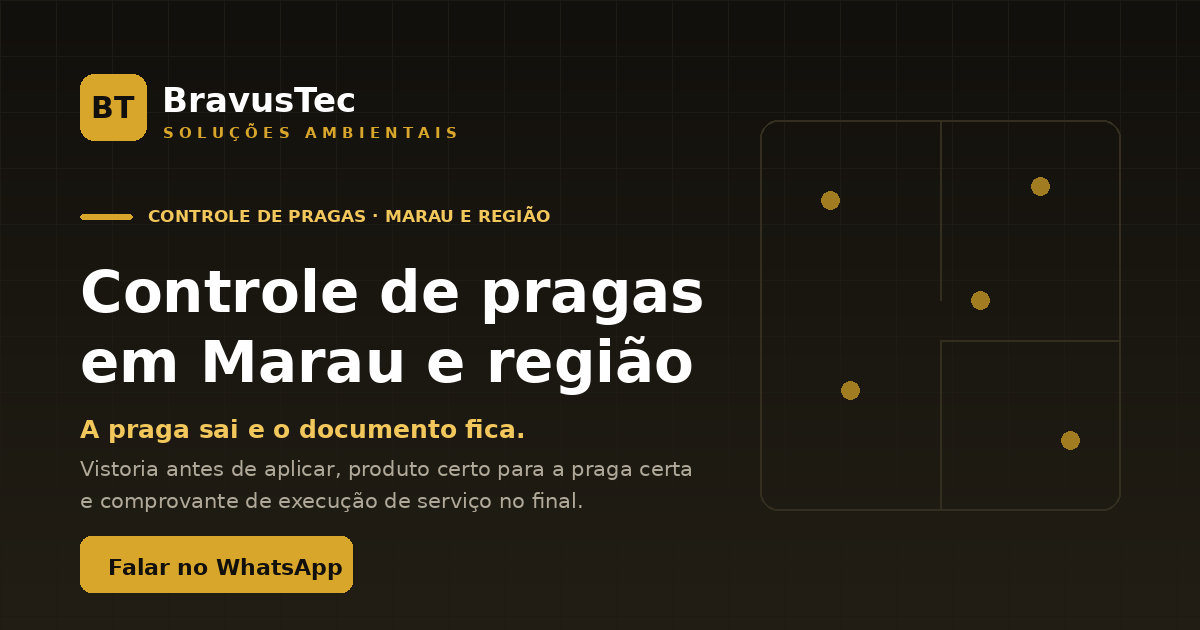
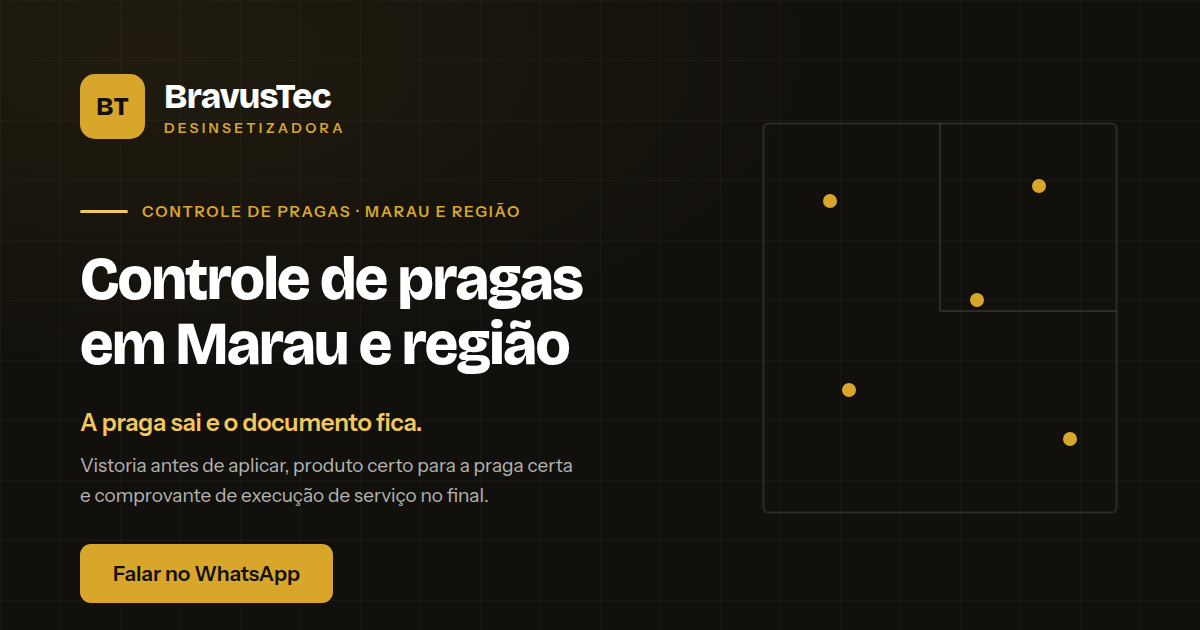
Troca 'Solucoes Ambientais' por 'Desinsetizadora'
Pedido do cliente. Bate com a razao social do cartao CNPJ
(BRAVUSTEC DESINSETIZADORA LTDA) e com a identidade do carro.

Alterado em title, og:title, os dois lockups da marca (header e
rodape), a linha legal do rodape e o JSON-LD.

A og.png tinha 'SOLUCOES AMBIENTAIS' gravado na propria imagem, entao
foi refeita em 1200x630 com o mesmo layout. Agora usa a Bricolage
Grotesque de verdade -- a imagem anterior havia sido gerada com fonte
substituta.

diff --git a/index.html b/index.html
@@ -3,7 +3,7 @@
 <head>
 <meta charset="UTF-8">
 <meta name="viewport" content="width=device-width, initial-scale=1">
-<title>BravusTec Soluções Ambientais — Controle de pragas em Marau e região</title>
+<title>BravusTec Desinsetizadora — Controle de pragas em Marau e região</title>
 <meta name="description" content="Controle de pragas em Marau/RS para casas e empresas. Vistoria sem custo, aplicação por equipe com EPI e comprovante de execução de serviço conforme a RDC 622/2022 da ANVISA.">
 <meta name="theme-color" content="#12100C">
 
@@ -12,7 +12,7 @@
 <meta name="robots" content="noindex, nofollow">
 
 <meta property="og:type" content="website">
-<meta property="og:title" content="BravusTec Soluções Ambientais — Marau/RS">
+<meta property="og:title" content="BravusTec Desinsetizadora — Marau/RS">
 <meta property="og:description" content="Controle de pragas para casas e empresas em Marau e região. Vistoria sem custo e documentação para vigilância sanitária.">
 <meta property="og:locale" content="pt_BR">
 <meta property="og:image" content="https://wendelrb.github.io/bravustec-site/og.png">
@@ -608,7 +608,7 @@ section[id], main[id]{ scroll-margin-top:84px; }
       <span class="brand-mark">BT</span>
       <span class="brand-txt">
         <span class="brand-name">BravusTec</span>
-        <span class="brand-sub">Soluções Ambientais</span>
+        <span class="brand-sub">Desinsetizadora</span>
       </span>
     </a>
     <nav class="nav">
@@ -1242,7 +1242,7 @@ section[id], main[id]{ scroll-margin-top:84px; }
     <div class="ft-brand">
       <a class="brand" href="#topo" style="margin-bottom:16px">
         <span class="brand-mark">BT</span>
-        <span class="brand-txt"><span class="brand-name">BravusTec</span><span class="brand-sub">Soluções Ambientais</span></span>
+        <span class="brand-txt"><span class="brand-name">BravusTec</span><span class="brand-sub">Desinsetizadora</span></span>
       </a>
       <p>Controle de pragas urbanas para residências, comércios e indústrias em Marau e região.</p>
     </div>
@@ -1282,7 +1282,7 @@ section[id], main[id]{ scroll-margin-top:84px; }
   </div>
   <div class="wrap">
     <p class="ft-legal">
-      BravusTec Soluções Ambientais — CNPJ 67.513.859/0001-75 · Licença sanitária [[Nº]] · Licença ambiental [[Nº]] · Responsável técnico [[NOME, CONSELHO E REGISTRO]].<br>
+      BravusTec Desinsetizadora Ltda — CNPJ 67.513.859/0001-75 · Licença sanitária [[Nº]] · Licença ambiental [[Nº]] · Responsável técnico [[NOME, CONSELHO E REGISTRO]].<br>
       Empresa especializada em controle de vetores e pragas urbanas, conforme a RDC nº 622/2022 da ANVISA. O art. 22 dessa norma exige que toda propaganda traga a identificação nos órgãos licenciadores e o número da licença — preencha os campos acima antes de publicar. Em caso de intoxicação, ligue para o Centro de Informação Toxicológica: 0800 721 3000.
     </p>
   </div>
@@ -1349,7 +1349,7 @@ qs.forEach(q => q.addEventListener("toggle", () => {
 {
   "@context":"https://schema.org",
   "@type":"PestControlService",
-  "name":"BravusTec Soluções Ambientais",
+  "name":"BravusTec Desinsetizadora",
   "description":"Controle de pragas urbanas para residências, comércios e indústrias em Marau e região, Rio Grande do Sul.",
   "telephone":"+55 54 99694-2942",
   "address":{"@type":"PostalAddress","streetAddress":"[[ENDEREÇO]]","addressLocality":"Marau","addressRegion":"RS","addressCountry":"BR"},
